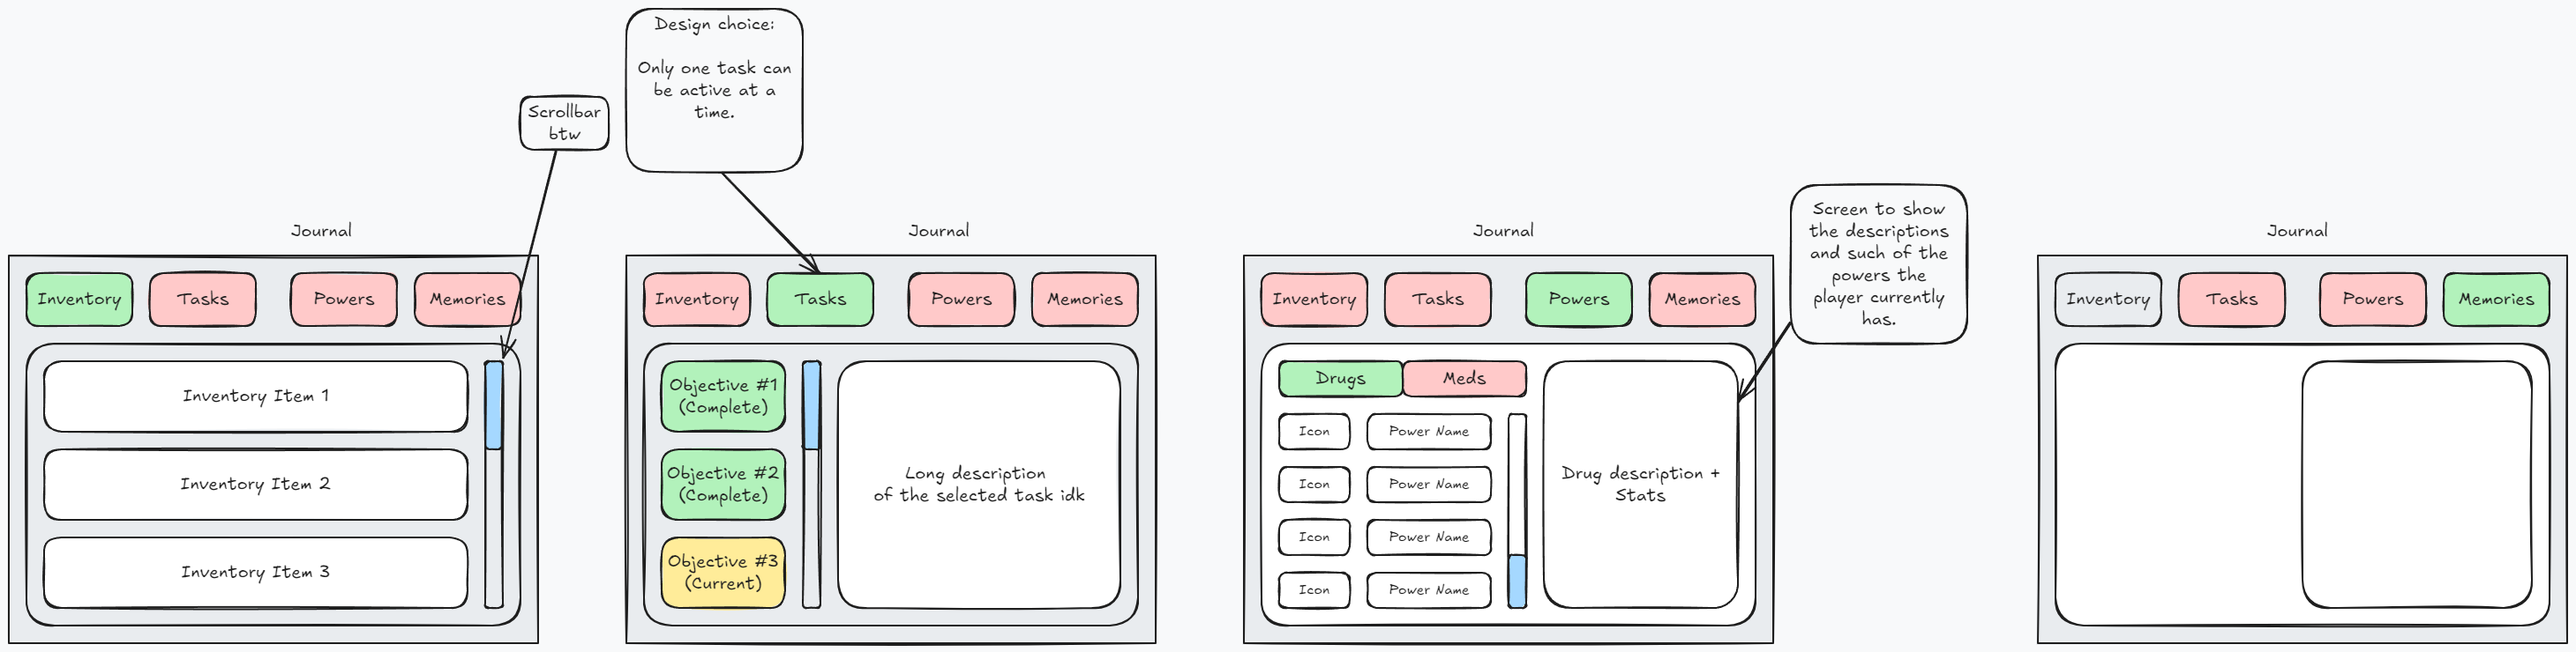
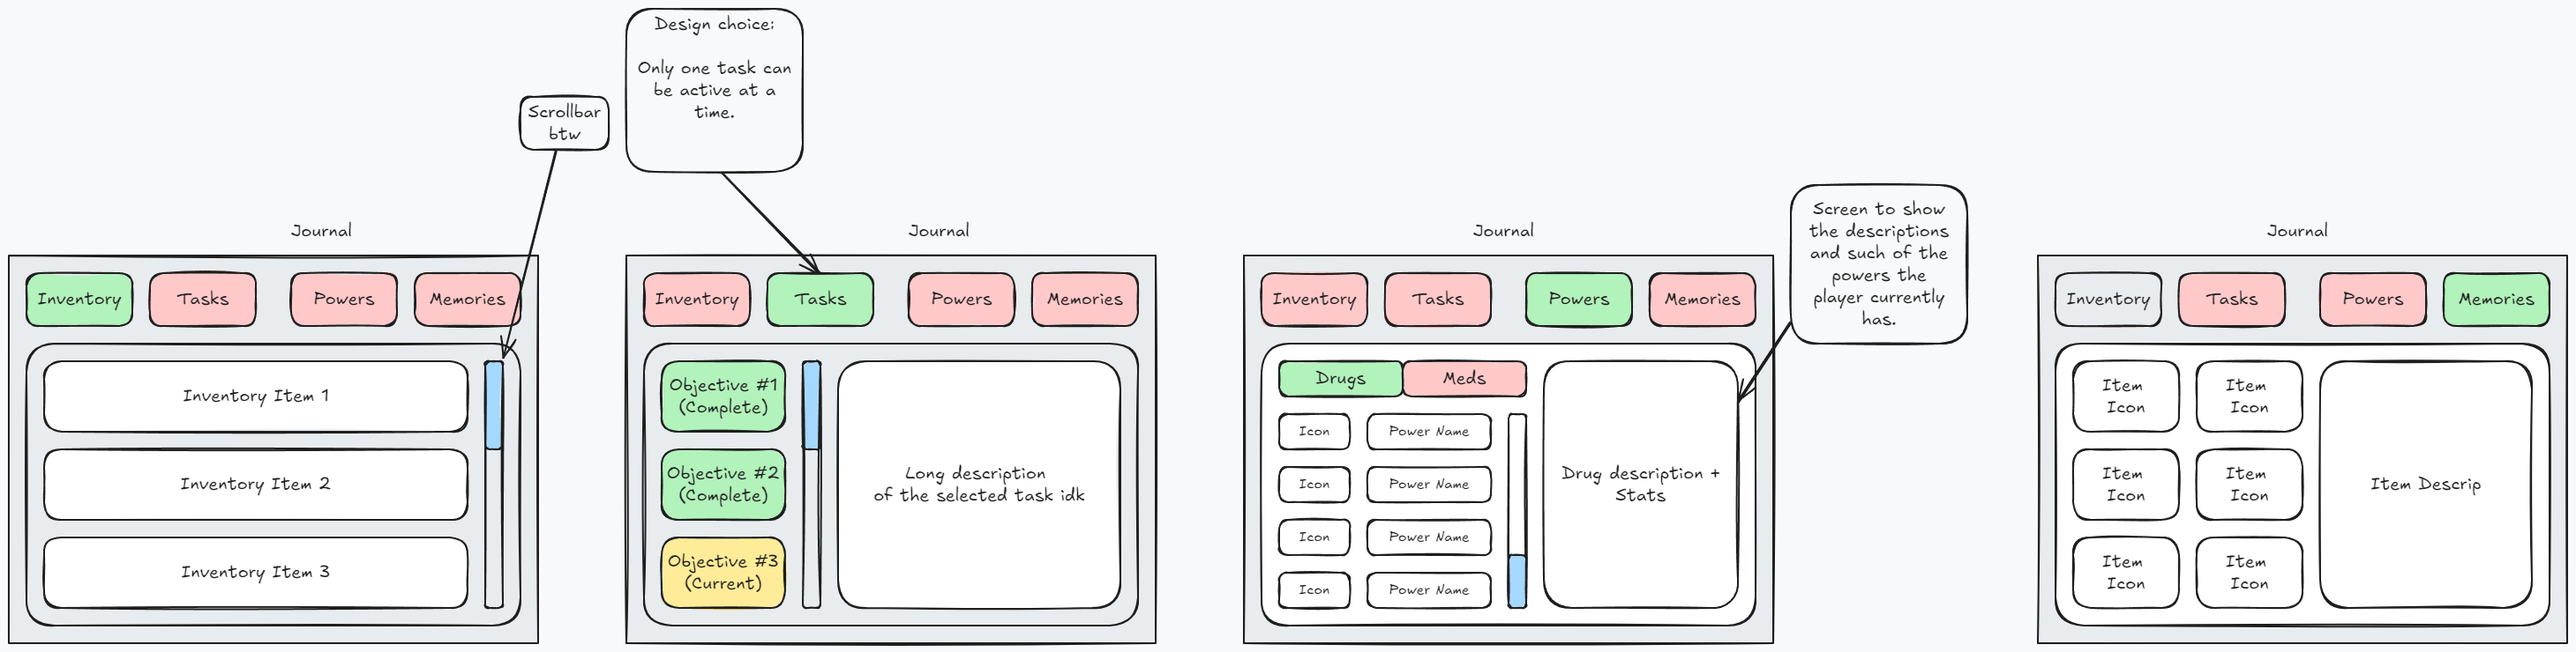
vault backup: 2024-11-26 17:06:43

Changed region(s): [[0.8103, 0.5284, 0.9349, 0.9324], [0.9349, 0.7149, 0.9661, 0.7459]]

diff --git a/_META/Excalidraw/Journal Breakdown.md b/_META/Excalidraw/Journal Breakdown.md
@@ -99,6 +99,26 @@ Memories ^2uJAS5VK
 
 Powers ^kR18GXT3
 
+Item 
+Icon ^HFLLNZds
+
+Item 
+Icon ^F2rET5Mn
+
+Item 
+Icon ^uF7M9vCu
+
+Item 
+Icon ^qJtEzh6z
+
+Item 
+Icon ^FTC3JISt
+
+Item 
+Icon ^7pis8rM5
+
+Item Descrip ^E5vjXGAe
+
 %%
 ## Drawing
 ```compressed-json
@@ -304,72 +324,42 @@ bTKWshpGB38CJWvJA+IklxwxfU+38jgM3ECEBJgDgFCN4MMmr8ACUTACHghAfKrzliM+CT0DeylmplbO
 
[1 lines of base64/hex data omitted]
 
[2 lines of base64/hex data omitted]
 
[2 lines of base64/hex data omitted]
 
[2 lines of base64/hex data omitted]
 
[2 lines of base64/hex data omitted]
 
[2 lines of base64/hex data omitted]
 
[2 lines of base64/hex data omitted]
 
[2 lines of base64/hex data omitted]
 
[2 lines of base64/hex data omitted]
 
[2 lines of base64/hex data omitted]
 
[2 lines of base64/hex data omitted]
 
[2 lines of base64/hex data omitted]
 
[2 lines of base64/hex data omitted]
 
[2 lines of base64/hex data omitted]
 
[2 lines of base64/hex data omitted]
 
[2 lines of base64/hex data omitted]
 
[2 lines of base64/hex data omitted]
 
[2 lines of base64/hex data omitted]
 
[2 lines of base64/hex data omitted]
 
[1 lines of base64/hex data omitted]
-
[1 lines of base64/hex data omitted]
-
[1 lines of base64/hex data omitted]
-
[1 lines of base64/hex data omitted]
-
[1 lines of base64/hex data omitted]
-
[1 lines of base64/hex data omitted]
-
[1 lines of base64/hex data omitted]
-
[1 lines of base64/hex data omitted]
-
[1 lines of base64/hex data omitted]
-
[1 lines of base64/hex data omitted]
-
[1 lines of base64/hex data omitted]
-
[1 lines of base64/hex data omitted]
-
[1 lines of base64/hex data omitted]
-
[1 lines of base64/hex data omitted]
-
[1 lines of base64/hex data omitted]
-
[2 lines of base64/hex data omitted]
 ```
 %%
